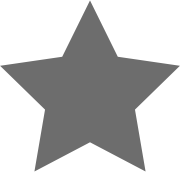
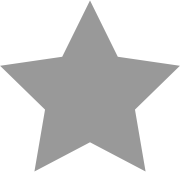
Added init event detail view and fixed some failing specs / removed old ones

diff --git a/src/app/events/events.component.spec.ts b/src/app/events/events.component.spec.ts
@@ -37,25 +37,12 @@ describe('EventsComponent', () => {
     expect(listItems.length).toBe(4);
   }));
 
-  it('should have list items with an article that have 3 sections each', inject([DataService], (service: DataService) => {
+  it('should have list items with an article that have one section each', inject([DataService], (service: DataService) => {
     const articles = fixture.debugElement.queryAll(By.css('li > article'));
     expect(articles.length).toBe(4);
     
     const sections = fixture.debugElement.queryAll(By.css('li > article > section'));
-    expect(sections.length).toBe(12);
-  }));
-
-  it('should have list items with an article that has 1 section that has a dl', inject([DataService], (service: DataService) => {
-    const dl = fixture.debugElement.queryAll(By.css('li > article > section > dl'));
-    expect(dl.length).toBe(4);
-  }));
-
-  it('should have list items with an article that has 1 section that has a dl with 3 dt and dd', inject([DataService], (service: DataService) => {
-    const dt = fixture.debugElement.queryAll(By.css('li > article > section > dl > dt'));
-    expect(dt.length).toBe(12);
-
-    const dd = fixture.debugElement.queryAll(By.css('li > article > section > dl > dd'));
-    expect(dd.length).toBe(12);
+    expect(sections.length).toBe(4);
   }));
 
   it('should have events that match dataServiceEvents', inject([DataService], (service: DataService) => {

diff --git a/src/app/app.module.ts b/src/app/app.module.ts
@@ -2,21 +2,35 @@ import { BrowserModule } from '@angular/platform-browser';
 import { NgModule } from '@angular/core';
 
 import { AppComponent } from './app.component';
+import { RouterModule, Routes } from '@angular/router';
+
 import { EventsComponent } from './events/events.component';
 import { NavComponent } from './nav/nav.component';
 import { DataService } from './data.service';
 import { LocalStorageService } from './local-storage.service';
 import { MessageService } from './message.service';
+import { EventDetailComponent } from './event-detail/event-detail.component';
 
+const appRoutes: Routes = [
+  { path: '', component: EventsComponent},
+  { path: 'events/:id', component: EventDetailComponent},
+  // { path: 'faq',      component: FaqComponent },
+//   { path: '**', component: PageNotFoundComponent }
+];
 
 @NgModule({
   declarations: [
     AppComponent,
     EventsComponent,
-    NavComponent
+    NavComponent,
+    EventDetailComponent
   ],
   imports: [
-    BrowserModule
+    BrowserModule,
+    RouterModule.forRoot(
+      appRoutes,
+      { enableTracing: true } // <-- debugging purposes only
+    )
   ],
   providers: [ 
     DataService,

diff --git a/src/app/events/events.component.html b/src/app/events/events.component.html
@@ -2,27 +2,16 @@
 <ul>
   <li *ngFor="let event of events">
     <article>
+      
       <section>
-        <h4>{{ event.title }} </h4>
-        <p>{{ event.location }} {{ event.startTime | date:dateFormat }}</p>
+        <a routerLink="events/{{ event.id }}">
+          <h4>{{ event.title }} </h4>
+          <p>{{ event.location }} {{ event.startTime | date:dateFormat }}</p>
+        </a>
         <a (click)="favoriteEvent(event.id)" [ngClass]="{star: true, favorite: isFavorite(event.id)}"></a>
       </section>
-      
-      <!-- <section> 
-        <dl>
-          <dt>Host:</dt>
-          <dd>{{ event.host }}</dd>
-          <br>          
-          <dt>Feature:</dt>
-          <dd>{{ event.feature }}</dd>
-          <br>
-          <dt>Duration:</dt>
-          <dd>{{ (event.endTime - event.startTime) / 1000 / 60 }} minutes</dd>
-        </dl>
-      </section>
-
-      <section>{{ event.description }}</section> -->
 
     </article>
   </li>
 </ul>
+<app-nav></app-nav>

diff --git a/src/app/event-detail/event-detail.component.spec.ts b/src/app/event-detail/event-detail.component.spec.ts
@@ -1,0 +1,25 @@
+import { async, ComponentFixture, TestBed } from '@angular/core/testing';
+
+import { EventDetailComponent } from './event-detail.component';
+
+describe('EventDetailComponent', () => {
+  let component: EventDetailComponent;
+  let fixture: ComponentFixture<EventDetailComponent>;
+
+  beforeEach(async(() => {
+    TestBed.configureTestingModule({
+      declarations: [ EventDetailComponent ]
+    })
+    .compileComponents();
+  }));
+
+  beforeEach(() => {
+    fixture = TestBed.createComponent(EventDetailComponent);
+    component = fixture.componentInstance;
+    fixture.detectChanges();
+  });
+
+  it('should create', () => {
+    expect(component).toBeTruthy();
+  });
+});

diff --git a/src/app/event-detail/event-detail.component.ts b/src/app/event-detail/event-detail.component.ts
@@ -1,0 +1,28 @@
+import { Component, OnInit } from '@angular/core';
+import { ActivatedRoute, ParamMap } from '@angular/router';
+
+import { DataService } from '../data.service';
+
+@Component({
+  selector: 'app-event-detail',
+  templateUrl: './event-detail.component.html',
+  styleUrls: ['./event-detail.component.css']
+})
+export class EventDetailComponent implements OnInit {
+
+  event: object
+
+  constructor( 
+    private route: ActivatedRoute,
+    private dataService: DataService
+  ) { }
+
+  ngOnInit() {
+    const idString = this.route.snapshot.paramMap.get('id');
+    let id = parseInt(idString);
+
+    this.event = this.dataService.getBy('id', id);    
+  }
+  
+
+}

diff --git a/src/app/message.service.spec.ts b/src/app/message.service.spec.ts
@@ -14,10 +14,11 @@ describe('MessageService', () => {
   }));
 
   it('should broadcast "showAll" and receive "showAll" when listening', inject([MessageService], (_messageService: MessageService) => {
-    _messageService.listen().subscribe((message: boolean) => {
-      expect(message).toEqual(false);
+    _messageService.listen().subscribe((message: object) => {
+      expect(message['type']).toEqual('message');
+      expect(message['value']).toEqual(true);
     });
     
-    _messageService.brodcast(false)
+    _messageService.brodcast({type: 'message', value: true})
   }));
 });

diff --git a/src/app/event-detail/event-detail.component.html b/src/app/event-detail/event-detail.component.html
@@ -1,0 +1,22 @@
+<article>
+    <section>
+        <h4>{{ event.title }} </h4>
+        <p>{{ event.location }} {{ event.startTime | date:dateFormat }}</p>
+    </section>
+    
+    <section> 
+      <dl>
+        <dt>Host:</dt>
+        <dd>{{ event.host }}</dd>
+        <br>          
+        <dt>Feature:</dt>
+        <dd>{{ event.feature }}</dd>
+        <br>
+        <dt>Duration:</dt>
+        <dd>{{ (event.endTime - event.startTime) / 1000 / 60 }} minutes</dd>
+      </dl>
+    </section>
+
+    <section>{{ event.description }}</section>
+
+  </article>

diff --git a/src/app/events/events.component.css b/src/app/events/events.component.css
@@ -2,21 +2,28 @@ ul { margin-bottom: 55px; }
 
 ul, li {padding: 11px 0; }
 li { 
-    border-bottom: 1px solid #000; 
+    border-bottom: 1px solid #999; 
     padding: 11px 2%;
 }
 li:first-child { 
-    border-top: 1px solid #000;
+    border-top: 1px solid #999;
 }
+li p {
+    color: #777;
+}
+/* li.disabled, li.disabled h4 {
+    color: #bbb;
+} */
 
-dl > dd, dl > dt {
+/* NO LONGER USED IN EVENTS */
+/* dl > dd, dl > dt {
     display: inline;
     display: inline-block;
 }
 
 dl > dt {
     font-weight: bold;
-}
+} */
 
 section { padding: 11px 0;}
 

diff --git a/src/app/data.service.ts b/src/app/data.service.ts
@@ -18,4 +18,12 @@ export class DataService {
     return arrayOfObjects.sort(function(a, b){ return a[key] > b[key] })
   }
 
+  getBy(attr: string, id: number) {
+    return this.events.find(
+      function(event) {
+        return event[attr] === id
+      }
+    );
+  }
+
 }

diff --git a/src/app/nav/nav.component.css b/src/app/nav/nav.component.css
@@ -11,7 +11,7 @@ form, input { width: 100%; }
 
 nav {
     background-color: #fff;
-    border-top: 1px solid #000;
+    border-top: 1px solid #999;
     height: 33px;
     padding: 11px 0;
     position: fixed;

diff --git a/src/app/event-detail/event-detail.component.css b/src/app/event-detail/event-detail.component.css
@@ -1,0 +1,12 @@
+article > section {
+    padding: 11px 2%;    
+}
+
+dl > dt, dl > dd {
+    display: inline;
+    display: inline-block;
+}
+
+dl > dt {
+    font-weight: bold;
+}

diff --git a/src/app/app.component.html b/src/app/app.component.html
@@ -1,3 +1,2 @@
 <h1>{{ eventTitle }}</h1>
-<app-events></app-events>
-<app-nav></app-nav>
+<router-outlet></router-outlet>
